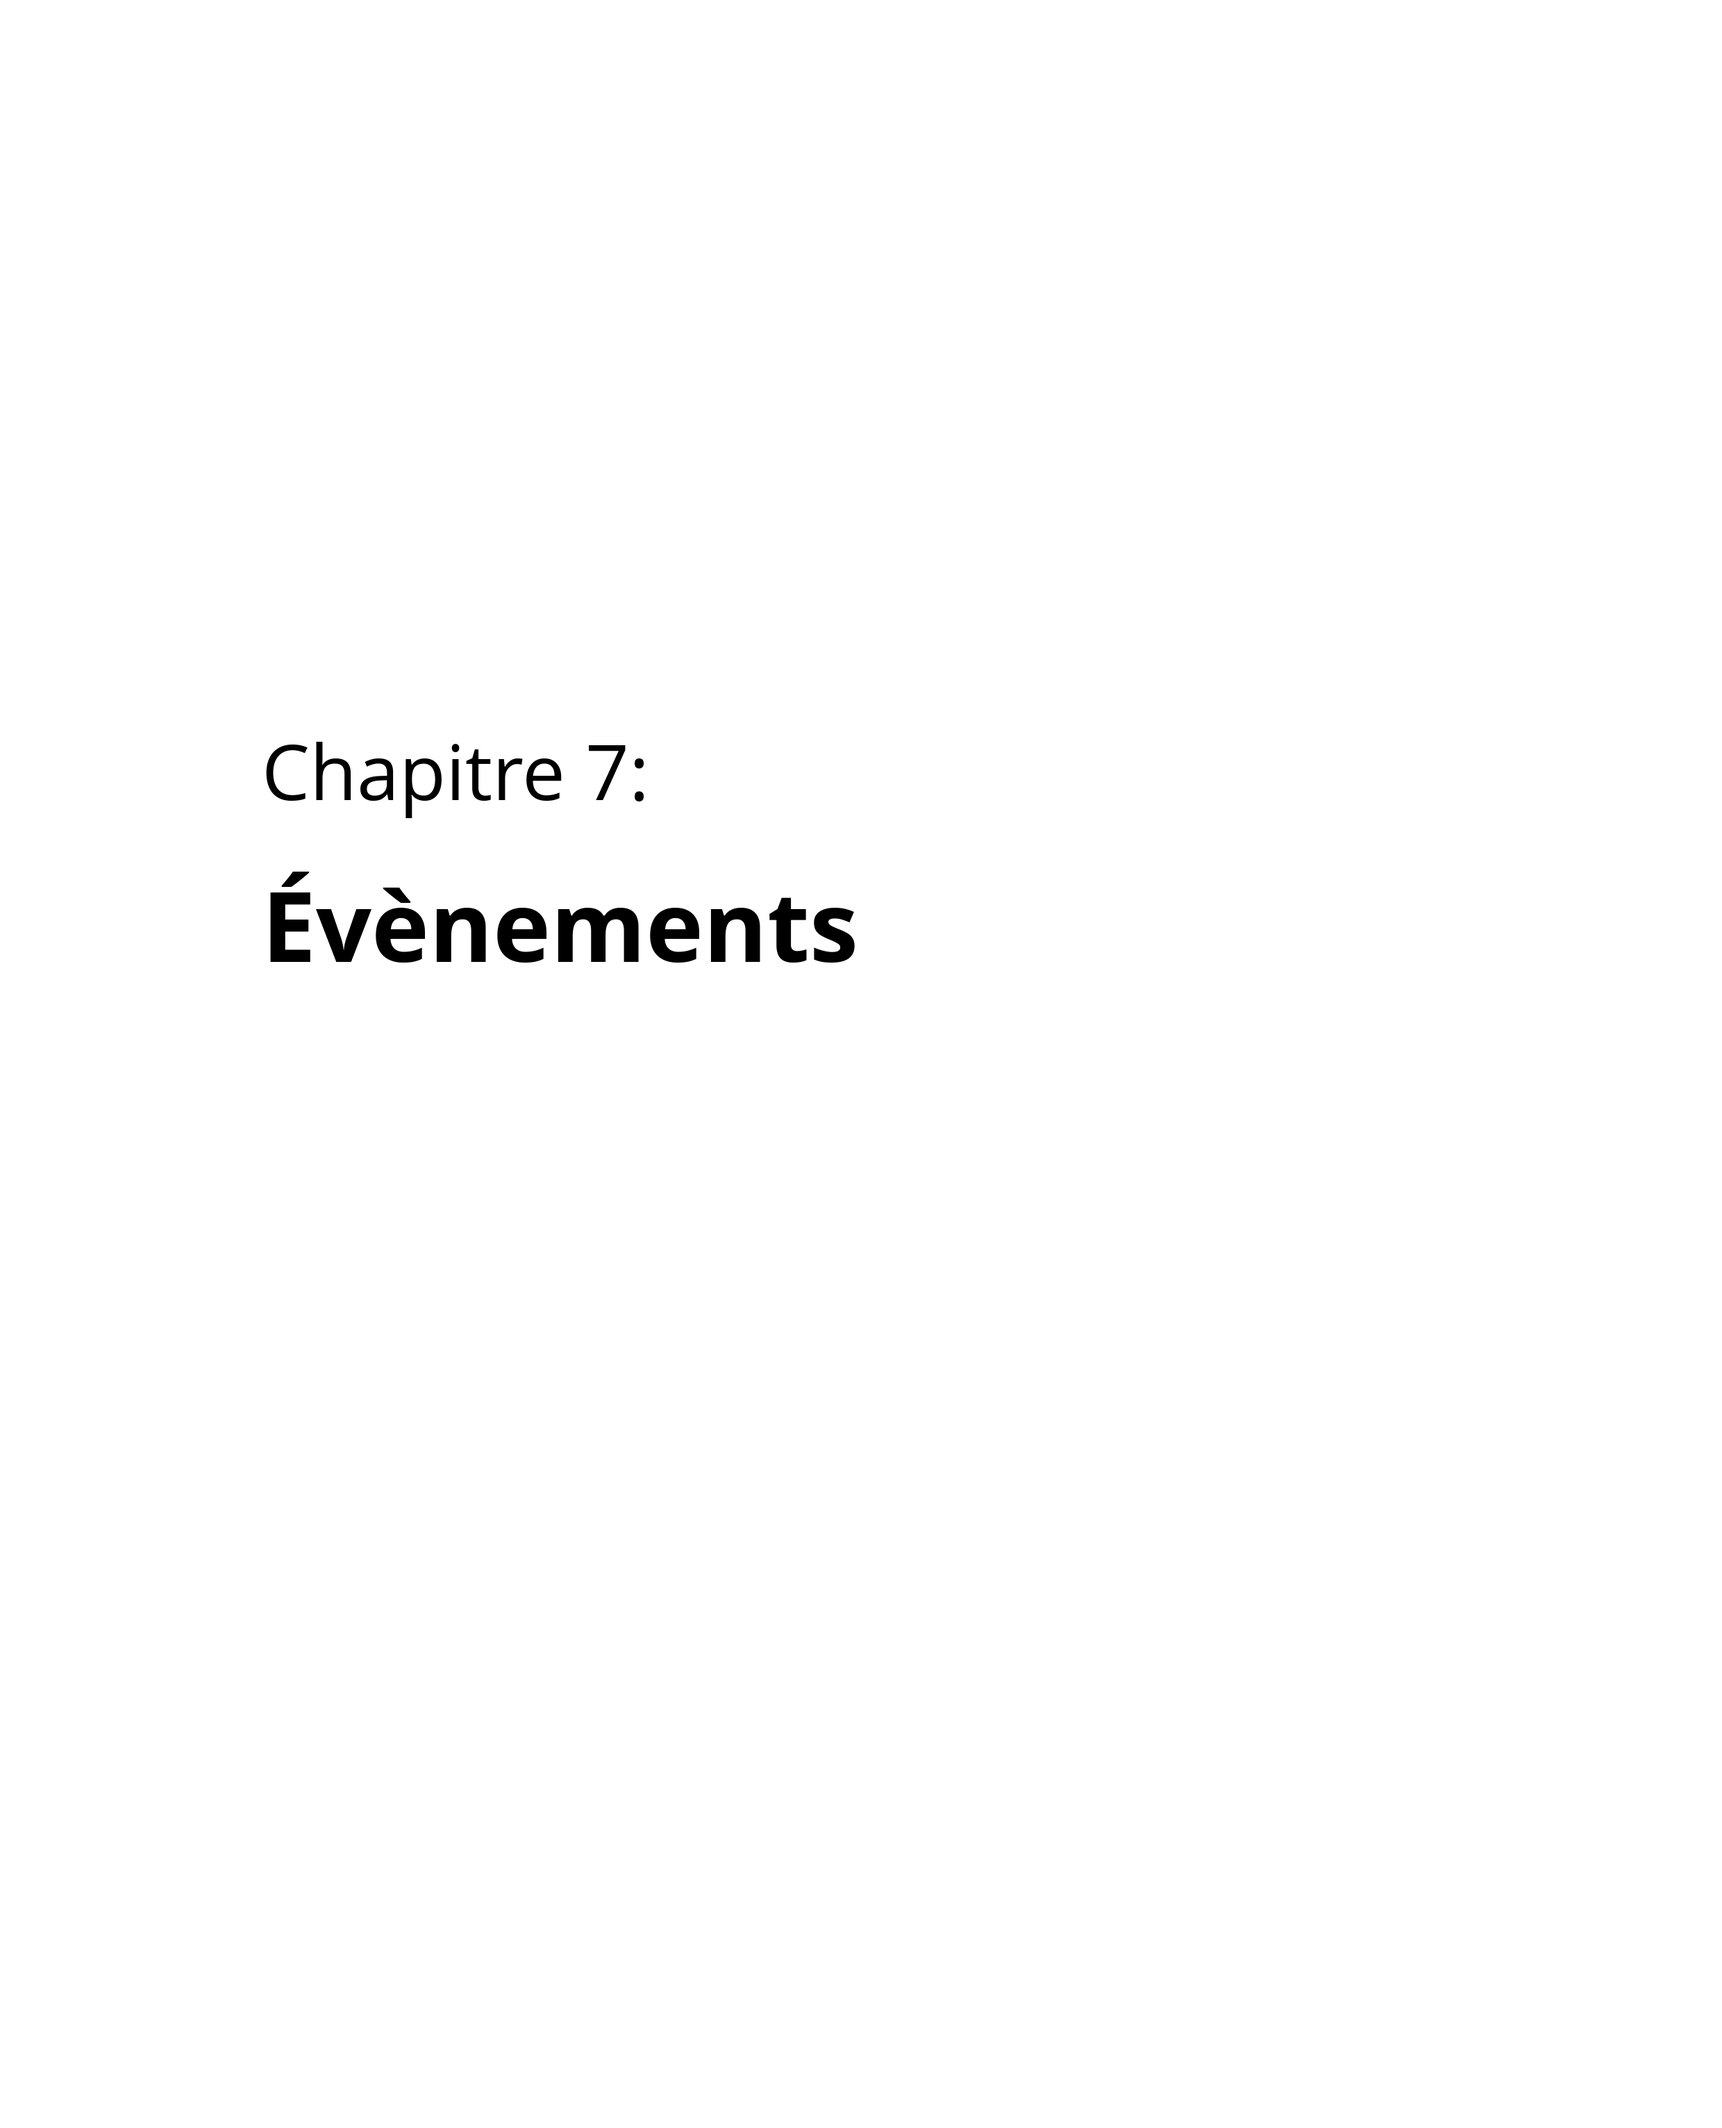
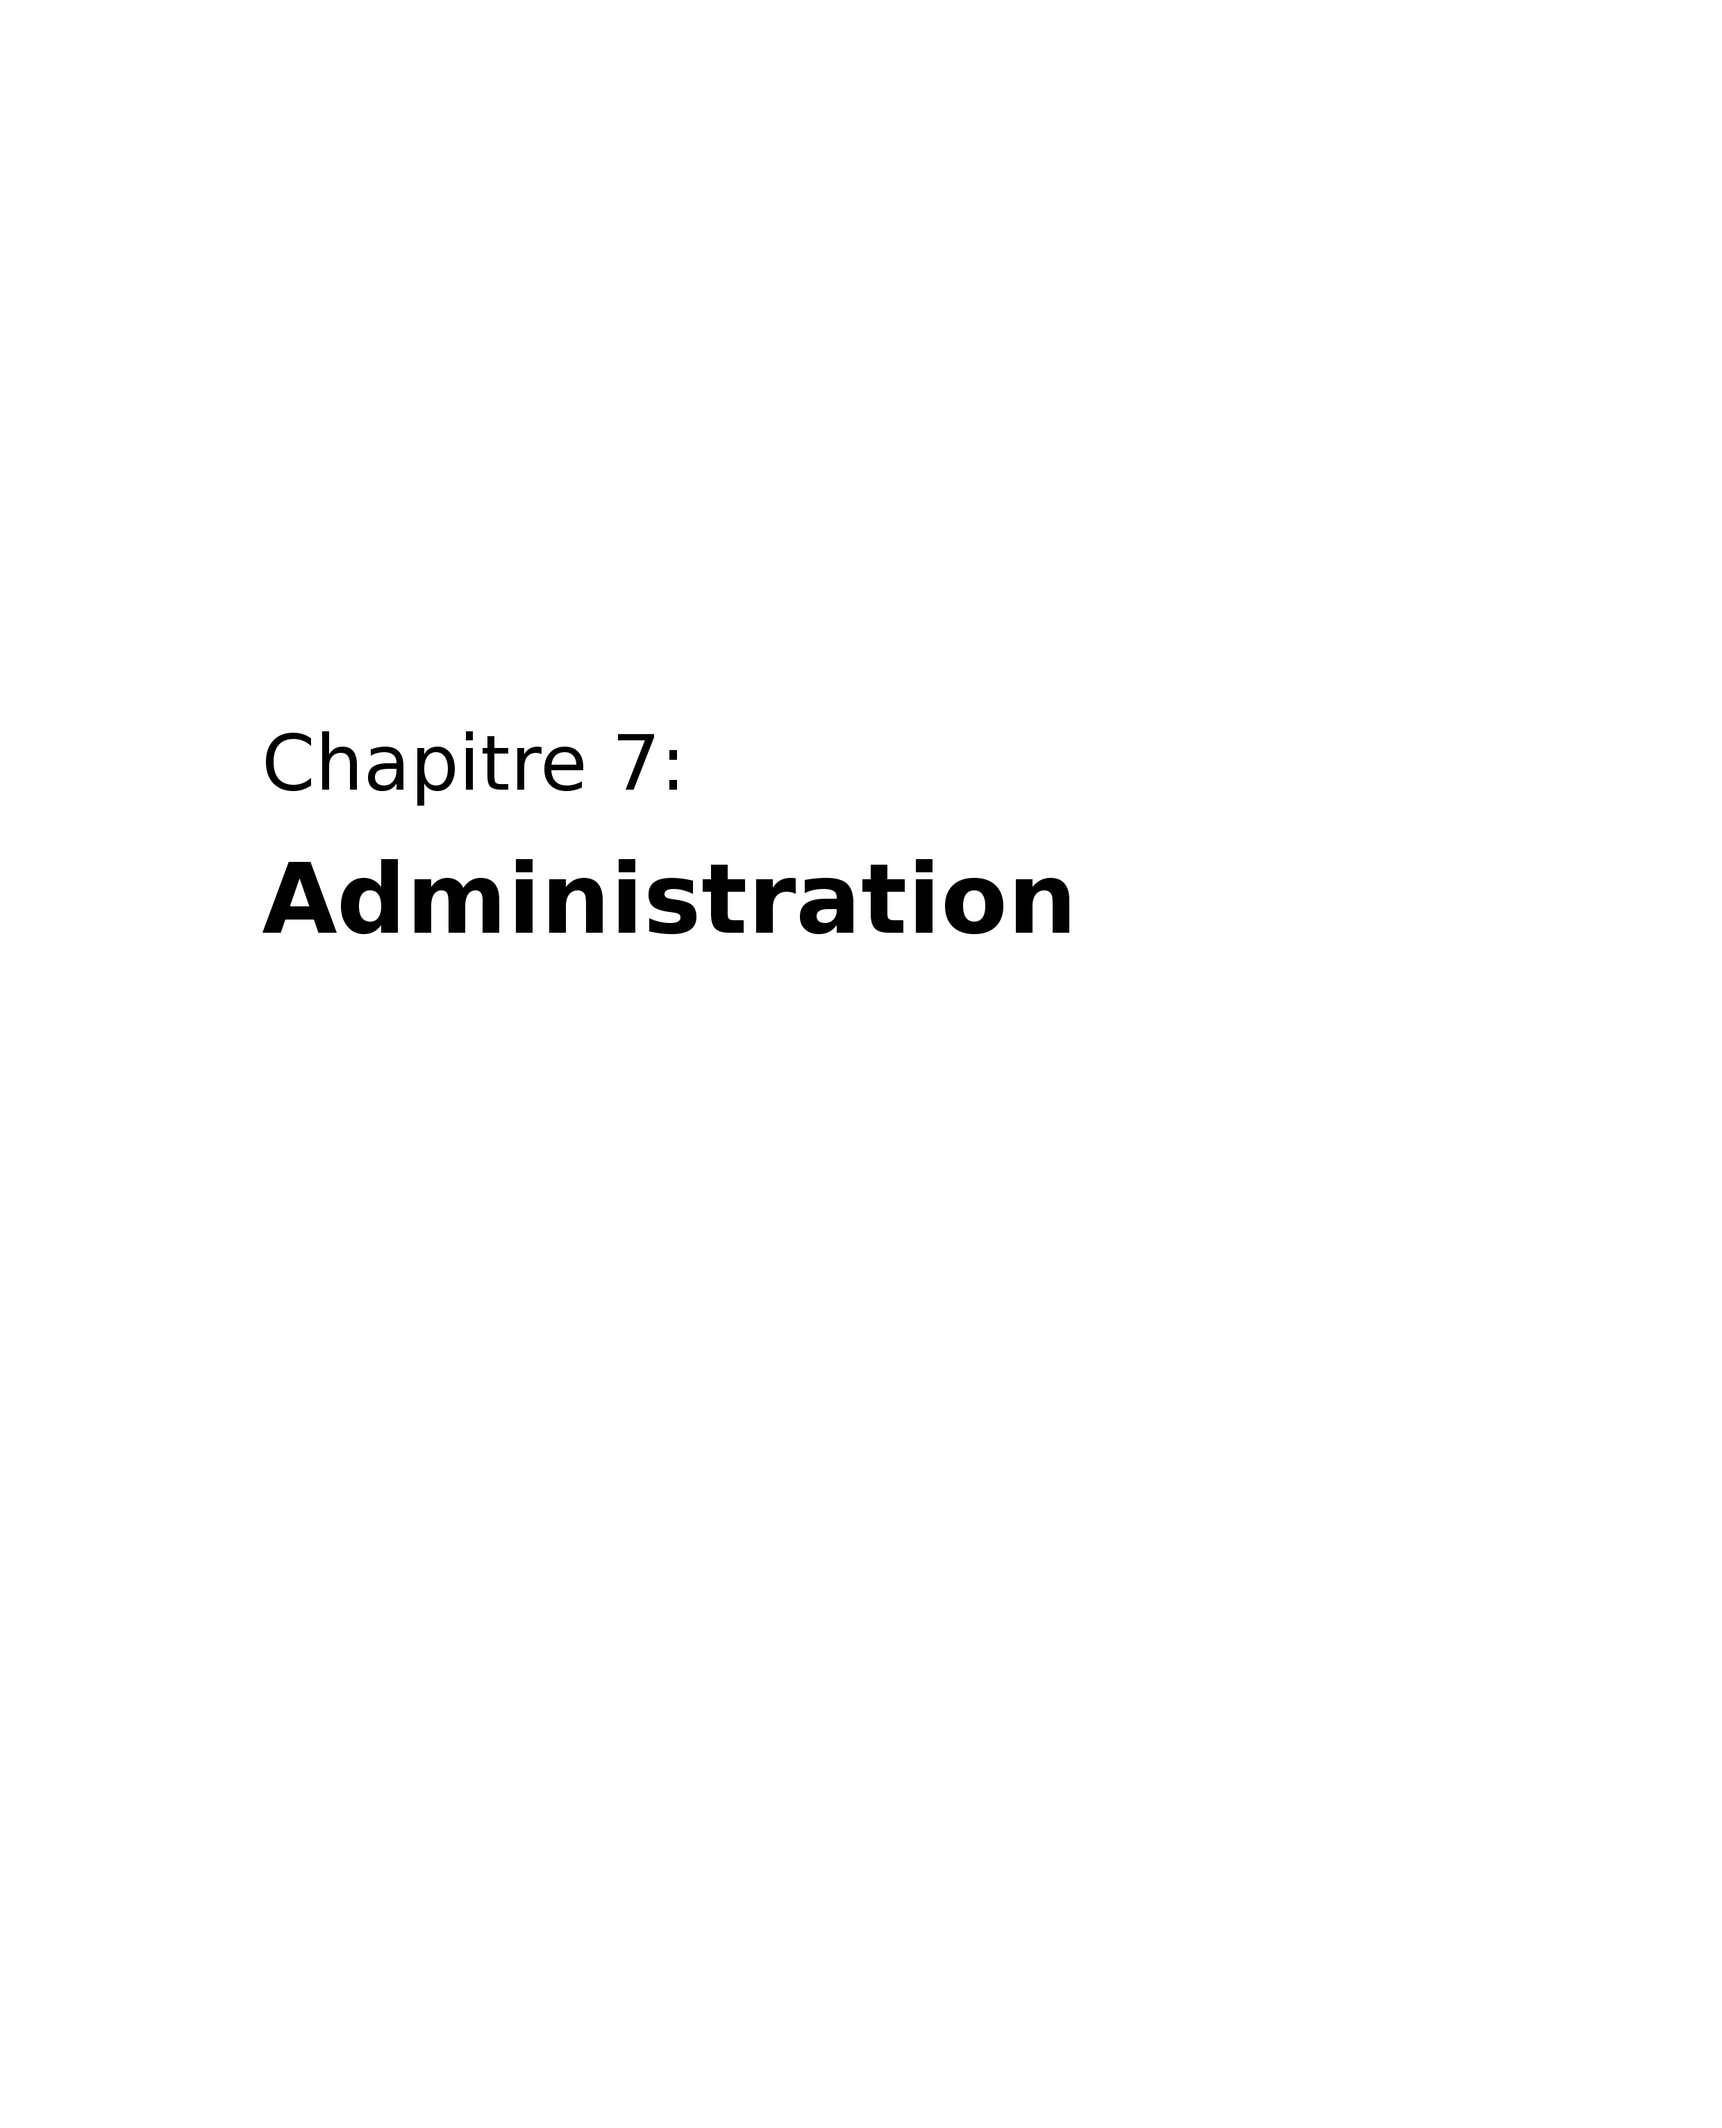
merging project and event to one chap (6) moving administration to chap7, updating visual rendering 'rencontres.md'

Changed region(s): [[0.1552, 0.3411, 0.621, 0.4651]]

diff --git a/chap7/materiel.md b/chap7/materiel.md
@@ -1,0 +1,64 @@
+###Demande de materiel
+
+Le materiel du club est fourni principalement par deus entitées:
+
+- Le SDACS: fourni tout ce qui est consomable, materiel informatiques ...etc.
+
+- Le CRI: fourni tout ce qui concerne le meublage, et l'entretient du local.
+
+
+Une liste de besoin materiel doit être communiqué au SDACS en début d'année (septembre/octobre). La liste doit être jointe à une demmande de la sorte:
+
+
+```
+						Alger, le xx/xx/xxxx
+
+		A Monsieur le directeur de la Sous direction 
+		des Activités Culturelles et Sportives 
+
+Objet : Demande de matériel
+
+Monsieur,
+Dans l'objectif de réaliser les différents programmes envisagés par le
+ club pour l'année 20XX/20XX et dans la prospective de mieux servir nos
+ adhérents, nous sollicitons votre bienveillance de bien vouloir nous 
+fournir le matériel mentionné dans la liste ci jointe.
+	
+Dans l’attente d’une réponse favorable de votre part, veuillez agréer 
+monsieur nos salutations distinguées.
+
+			
+
+						 Président(e) du club
+```
+
+
+Tout autre demmande doit suivre un template similaire. Davantage d'arguments doivent être fournis. Voici un template:
+
+
+```
+						Alger, le xx/xx/xxxx
+
+			À,Monsieur le directeur de la sous 
+ 	  direction des activités culturelles et sportives
+
+
+Objet : Demande de [quoi?]
+
+Monsieur,
+
+Comme vous le savez, notre club organise [activité lié au materiel 
+demmandé], et pour cela, nous avons besoin [materiel/ou réference vers
+ une éventuelle liste jointe].
+
+Pour ce fait, nous avons l'honneur de solliciter votre haute bienveillance
+ de bien vouloir nous fournir ce matériel pour ce sujet.
+
+Dans l’attente d’une réponse favorable de votre part, veuillez agréer 
+monsieur l’expression de nos salutations distinguées.
+
+							Président du club
+```
+
+Le template et des exemple de demande de réservation de salle sont disponibles sous format **odt** sur (ce lien)[].
+

diff --git a/chap7/intro.md b/chap7/intro.md
@@ -1,0 +1,29 @@
+##Chapitre 8: Administration
+
+Le club peut rentrer en contacte avec différentes administrations, les pricipales en sont:
+
+- La sous diréction des activités culturels et scientifiques: tout club universitaire y sont affiliés, et doivent les informer de leurs activitées. La diréction forme aussi un lien entre les clubs et d'autres résponsables du réctorat (dont le chef de sécurité par exemple qui signe les autorisations d'accès).
+
+- La diréction du Centre de Ressources Informatiques: le CRI étant le batiment dans lequel est situé le club, tout ce qui concerne le local doit passer par eux.
+
+- Scolarité/doyen des facultés: pour organiser n'importe quelle activité dans une faculté donnée, il est nécessaire d'avoir l'autorisation de son doyen.
+
+
+###Role des membres du bureau executif
+
+La structure *"Président - V. président - Secrétaire Gle - Secretaire Gle. adjoint"* n'est que formalitée: le role des membres du bureau est défini différemen. 
+
+Le président est le premier résponsable de ce qui se passe au club et le premier à être sonctioné en cas de dépassement. Les trois autres membres prennent en charge les différents départements mentioné dans les chapitres précédents.
+
+####President(e): 
+Haut résponsable qui a le dernier mot si il y a un conflit dans la prise d'une décision.
+
+Il se doit aussi de rendre des comptes à la sous direction des activités culturels et sportives en ce qui concerne les activités du club.
+
+####Adhérents:
+Chaque adhérent résponsable (membre du bureau ou non) d'une activité est autorisé à prendre toute décision nécessaires au bon déroulement de son activité, **SAUF SI** si la tache concerne une autre activité et/ou touch à l'image du club.
+
+La communication interne est primordiale ! chaque adhérent doit bien lire le chapitre traitant du sujet (chap4) !
+
+
+

diff --git a/chap7/reservation.md b/chap7/reservation.md
@@ -1,0 +1,45 @@
+###Demande de réservation de salles
+
+La demande de réservation d'une salle X est remise à la personne chargé de l'immuble auquel la salle fait partie, ou à sa secrétaire.
+
+La méthode de remise de la demande et le délet de d'attente pour la réponse varient d'un résponsable à un autre.
+La pluspart demandent une lettre imprimée. Certain accepetent les emails.
+Une autorisation d'organisation de l'activitée, signé du SDACS, est parfois demandée.
+
+Il faut se renseigner sur le délèt de réponse, Ce dernier vari généralement entre un, deux ou trois jours, jusqu'à une semaine après la remise de la demande (peut aller au dela).
+
+La demande doit inclure:
+
+- Le motif de réservation (activité)
+- La description de l'activitée
+- La date et l'heure de réservation
+- Le bénéfis que l'activitée aura pour les étudiants
+
+Voici un template de lettre:
+
+```
+						   Alger, le xx/xx/xxxx
+
+	Á [madame/moniseur titre de résponsabilité]
+
+Objet : Reservation [Salle] 
+
+Bonsoir [Madame/Monsieur],
+ 
+    Nous, Open Minds Club, prévoyons d'organiser [présentation non 
+exhaustive de l'activité]. En effet [objectif de l'activité].
+    Nous voulons vous demander s’il serait possible de réserver [salle]
+ le [date] à partir de [heur] jusqu'à [heur].
+    Dans l'attente d'une réponse favorable, veuillez agréer, Madame, nos
+ salutations les plus distinguées.
+
+Cordialement,
+
+
+						   Président(e) du club
+
+```
+
+
+Le template et des exemple de demande de réservation de salle sont disponibles sous format **odt** sur (ce lien)[].
+

diff --git a/chap7/acces.md b/chap7/acces.md
@@ -1,0 +1,39 @@
+###Autorisation d'accès
+
+Les autorisations d'accès se divisent en deux grande catégories:
+
+**Accès en horaire non réglementaire**: par exemple, autorisation d'accès un vendredi pour préparation d'un évènement, d'une salle ...etc ou autorisation d'accès la deusième semaine des vaccances de printemps.
+
+
+**Accès pour personnes étrangères à l'université**: 
+
+En voici un template:
+
+```
+						Alger, le XX/XX/20XX
+			A Monsieur le directeur de la Sous direction 
+			      des Activités Culturelles et Sportives
+
+Objet : Demande d’autorisation d’accès pour [monsieur/madamme nom et
+					     prénom]
+
+Monsieur,
+Comme vous le savez, [explications] le club organise [activité lié à 
+le personne conserné par l'autorisation]. 
+
+Pour cela nous vous sollicitons de bien vouloir accorder une 
+autorisation d’accès le [Date] à [nom et prénom de la personne consernée]
+ pour [raison].
+
+Dans l’attente d’une réponse favorable de votre part veuillez agréer, 
+monsieur, nos salutations les plus distinguées.
+
+
+
+			           	 	      Président du club
+```
+
+Le template ainsi que des exemples des deux types de demande d'autorisation d'accès sont téllechargable en format **odt** sur (ce lien)[].
+
+**NB: Avoir une autorisation d'accès pour des étrangers (nationalité non Algerienne) est une opération délicate qui doit suivre des régles plus stricte (dont, l'éventualité de contacter le ministère des affaires étrangères ou de l'enseignement supérieur)**
+

diff --git a/chap5/rencontres.md b/chap5/rencontres.md
@@ -9,15 +9,15 @@ Chaque années, une assemblée pour le vote du bureau executif et quatre autres 
 
 Le model de planing est comme suit:
 
-AG_0 : Vote : [Vote du nouveaux bureau executif] Troisième semaine de la rentrée
+- **AG_0 Vote** : [Vote du nouveaux bureau executif] Troisième semaine de la rentrée
 
-AG_1 : Let's meet : [Première rencontre] 1 mois avant les vaccances du 1er semestre, approximativement, ou plustot. 
+- **AG_1 Let's meet** : [Première rencontre] 1 mois avant les vaccances du 1er semestre, approximativement, ou plustot. 
 
-AG_2 : Where are we : [Revoir le planning d'activités] Fin des examens du premier semestre. 
+- **AG_2 Where are we** : [Revoir le planning d'activités] Fin des examens du premier semestre. 
 
-AG_3 : It's getting close : [Revoir les dernières activités de l'année] Première semaine de vaccances de printemps.
+- **AG_3 It's getting close** : [Revoir les dernières activités de l'année] Première semaine de vaccances de printemps.
 
-AG_4 : Great job everyone ! : [Fin d'année] Après les examens de 2eme semestre.
+- **AG_4 Great job everyone !** : [Fin d'année] Après les examens de 2eme semestre.
 
 Des rassemblements autre que les assemblées générales (FuMY) sont aussi prévu. Loin d'être formel, ces rassemblement se font juste pour le fun de se retrouver tous ensemble, discuter et partager des passions.
 

diff --git a/SUMMARY.md b/SUMMARY.md
@@ -18,11 +18,10 @@
 	* [Planing des rencontres](chap5/rencontres.md)
 	* [Remarques et Feedbacks](chap5/remarqfeedback.md)
 	* [Open Court](chap5/opencourt.md)
-* [Chap6: Projets ](chap6/README.md) 
+* [Chap6: Évenements et Projets ](chap6/README.md) 
 	* [Comment s'organiser](chap6/comment.md)
-* [Chap7: Évenements ](chap7/README.md)
-* [Chap8: Administration ](chap8/README.md)
-	* [Introduction](chap8/intro.md)
-	* [Autorisation d'acces](chap8/acces.md)
-	* [Réservation de salle](chap8/reservation.md)
-	* [Demande de materiel](chap8/materiel.md)
+* [Chap7: Administration ](chap7/README.md)
+	* [Introduction](chap7/intro.md)
+	* [Autorisation d'acces](chap7/acces.md)
+	* [Réservation de salle](chap7/reservation.md)
+	* [Demande de materiel](chap7/materiel.md)
